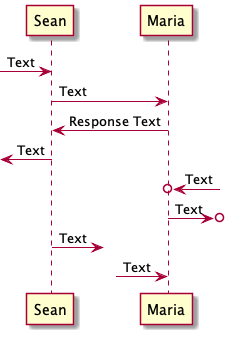
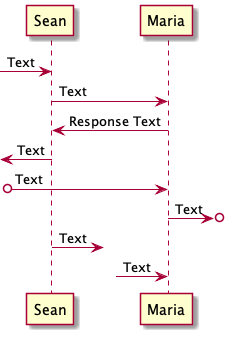
GitBook: [#109] No subject

Changed region(s): [[0.6754, 0.5045, 0.9518, 0.5935], [0.0, 0.5045, 0.2149, 0.5935]]

diff --git a/minimum-viable-products/plantuml-diagrams-as-code/syntax/sequence-diagram/messages.md b/minimum-viable-products/plantuml-diagrams-as-code/syntax/sequence-diagram/messages.md
@@ -52,7 +52,7 @@ Maria -> Zarek
 
 
 
-## Message Properties
+## Properties
 
 The minimum requirements for a message are **sender**, **line\_type**, **head\_type**, and **receiver**. As we did with lifelines we will keep all message properties except **message\_text** in the below order throughout this book. Keep in mind the order is sender to receiver as shown above, not necessarily left to right. The **message\_text** property is always furthest to the right.
 
@@ -65,15 +65,15 @@ The minimum requirements for a message are **sender**, **line\_type**, **head\_t
 
 ### Senders & Receivers
 
-Senders and receivers are usually the participants with lifelines discussed in the previous section. There are a few exceptions. Messages that come from or go to places outside the scope of the current diagram have gates as their sender or receiver at the edge of the diagram. Other messages may get lost or we may not know where they come from. Per UML standards these lost and found messages are sent or received from a circle. PlantUML doesn't have a standalone command for this, so we have to combine gates with our circle. UML calls for a solid circle but PlantUML only supports an open circle.
+Senders and receivers are usually the participants with lifelines discussed in the previous section. There are a few exceptions. Messages that come from or go to places outside the scope of the current diagram have gates as their sender or receiver at the edge of the diagram. Other messages may get lost or we may not know where they come from. Per UML standards these lost and found messages are sent or received from a circle. PlantUML doesn't have a standalone command for this, so we have to combine gates with our circle. UML calls for a solid circle but PlantUML only supports an open circle. At the time of this writing PlantUML does not properly display found messages originating from the right side gate.
 
 **Senders** and **receivers** that are not lifelines with **names** must touch the **arrow\_head**. See the list of **senders** and **receivers** below.
 
 * **name** - the name of a lifeline
-* \[ - signifies a gate touching the left side of the sequence diagram can be a sender or receiver
-* ] - signifies a gate touching the right side of the diagram can be a sender or receiver
-* o- used as the **sender** of a found message or the **receiver** of a lost message, this is a lower-case letter o
-* ? - a special character used to shorten the length of a message arrow
+* **\[** - signifies a gate touching the left side of the sequence diagram can be a sender or receiver
+* **]** - signifies a gate touching the right side of the diagram can be a sender or receiver
+* **o**- used as the **sender** of a found message or the **receiver** of a lost message, this is a lower-case letter o
+* **?** - a special character used to shorten the length of a message arrow
 
 #### Example: Sender & Receiver
 
@@ -91,8 +91,8 @@ Sean <- Maria  : Response Text
 'Send a message from Sean to a left gate.
 Sean ->[ :Text
 
-'Send a found message to Maria from the right.
-]o-> Maria: Text
+'Send a found message to Maria from the left.
+[o-> Maria : Text
 
 'Send a lost message from Maria to the right.
 Maria ->o] : Text
@@ -100,20 +100,20 @@ Maria ->o] : Text
 'Send a message with a shortened arrow from Sean to the right.
 Sean ->? : Text
 
-'Send a message with a shortenedd arrow to Maria from the left.
+'Send a message with a shortened arrow to Maria from the left.
 ?-> Maria : Text
 
 @enduml
 ```
 
-![Sender & Receiver](../../../../.gitbook/assets/Messages03\_sender\_receiver.png)
+![Senders & Receivers](../../../../.gitbook/assets/Messages03\_sender\_receiver.png)
 
 ### Line Type
 
 There are two basic **line\_types**, solid and dashed. Solid lines are for basic messages. Dashed lines are for replies and lifeline creation messages. Creation messages are covered in the [Participants Creating New Lifelines](lifelines.md#participants-creating-new-lifelines) section of [Lifelines](lifelines.md).
 
-* "-" - creates a solid line
-* "--" - creates a dashed line
+* "**-**" - creates a solid line
+* "**--**" - creates a dashed line
 
 #### Example: Line Type
 
@@ -230,34 +230,3 @@ Zarek ->  Sean : Multiline \nText
 ```
 
 ![Message Text](../../../../.gitbook/assets/Messages07\_message\_text.png)
-
-## Autonumber
-
-You can assign your messages sequential numbers automatically with the **autonumber** command.
-
-#### Example: Autonumber
-
-```
-@startuml
-'Example: Messages Autonumber
-
-'Activate the autonumber method.
-autonumber
-
-'Send a few messages back and forth.
-Sean  ->  Maria : Text
-Sean  <-- Maria : Text
-
-Maria ->  Zarek : Text
-Maria <-- Zarek : Text
-
-Zarek ->  Sean : Text
-Zarek <-- Sean : Text
-
-@enduml
-```
-
-![Autonumber](../../../../.gitbook/assets/Messages08\_autonumber.png)
-
-## Autonumber Properties
-

diff --git a/minimum-viable-products/plantuml-diagrams-as-code/syntax/sequence-diagram/autonumber.md b/minimum-viable-products/plantuml-diagrams-as-code/syntax/sequence-diagram/autonumber.md
@@ -1,0 +1,121 @@
+# Autonumber
+
+You can assign your messages sequential numbers automatically with the **autonumber** command.
+
+## Activation
+
+Place the **autonumber** command in your code and the following messages will be numbered sequentially.
+
+#### Example: Autonumber Activation
+
+```
+@startuml
+'Example: Messages Autonumber
+
+'Activate the autonumber method.
+autonumber
+
+'Send a few messages back and forth.
+Sean  ->  Maria : Text
+Sean  <-- Maria : Text
+
+Maria ->  Zarek : Text
+Maria <-- Zarek : Text
+
+Zarek ->  Sean : Text
+Zarek <-- Sean : Text
+
+@enduml
+```
+
+![Autonumber Activation](<../../../../.gitbook/assets/Autonumber01\_activation (1).png>)
+
+## Commands
+
+There are three commands that can follow **autonumber**. They are all optional. You will only need **resume** if you used **stop**, but it's not required. The **inc** command will be covered below in the [Specific Sequence](autonumber.md#specific-sequence) section.
+
+* **stop -** does what is says on the box, stops the sequential numbering
+* **resume** - resumes sequential numbering after using **stop**
+* **inc** - adds specific increments to specific sequences
+
+#### Example: Stop & Resume
+
+```
+@startuml
+'Example: Autonumber Stop & Resume
+
+'Activate the autonumber method.
+autonumber
+
+'Send a message from Sean to Maria and a reply.
+Sean  ->  Maria : Text
+Sean  <-- Maria : Text
+
+'Stop the autonumber method.
+autonumber stop
+
+'Send a message from Maria to Zarek and a reply.
+Maria ->  Zarek : Text
+Maria <-- Zarek : Text
+
+'Resume the autonumber method.
+autonumber resume
+
+'Send a message from Zarek to Sean and a reply.
+Zarek ->  Sean : Text
+Zarek <-- Sean : Text
+
+@enduml
+```
+
+![Stop & Resume](../../../../.gitbook/assets/Autonumber02\_stop\_resume.png)
+
+## Properties
+
+All **autonumber** properties are optional. They should appear after the **autonumber** or **resume** commands. They must be used in order even if you don't use all properties. You must have a **start\_number** if you wish to use **increment**. The **format** property contains three optional parts. There is no mandatory order inside of **format**.
+
+* **start\_number** - the initial number used in the **autonumber** sequence
+* **increment** - the number added to the **autonumber** sequence with each message
+* **format** - determines the format of the sequential numbers consist of three parts
+  * **text\_format** - similar to other formatting, usually surrounds the **message** and **number\_format**
+  * **message** - displays a message with the sequential numbers
+  * **number\_format** - provides a format for the sequential numbers
+
+### Start Number
+
+The **start\_number** property immediately follows either the **autonumber** or **resume** command. It defines the number that will begin the numbering sequence.
+
+#### Example: Start Number
+
+```
+@startuml
+'Example: Autonumber Start Number
+
+'Activate the autonumber method.
+'Start the sequence at 10.
+autonumber 10
+
+'Send a message from Sean to Maria and a reply.
+Sean  ->  Maria : Text
+Sean  <-- Maria : Text
+
+'Stop the autonumber method.
+autonumber stop
+
+'Send a message from Maria to Zarek and a reply.
+Maria ->  Zarek : Text
+Maria <-- Zarek : Text
+
+'Resume the autonumber method.
+'Restart the sequence at 20.
+autonumber resume 20
+
+'Send a message from Zarek to Sean and a reply.
+Zarek ->  Sean : Text
+Zarek <-- Sean : Text
+
+@enduml
+```
+
+## Specific Sequence
+

diff --git a/SUMMARY.md b/SUMMARY.md
@@ -35,6 +35,7 @@
         * [Lifelines](minimum-viable-products/plantuml-diagrams-as-code/syntax/sequence-diagram/lifelines.md)
         * [Messages](minimum-viable-products/plantuml-diagrams-as-code/syntax/sequence-diagram/messages.md)
         * [ExecutionSpecification](minimum-viable-products/plantuml-diagrams-as-code/syntax/sequence-diagram/executionspecification.md)
+        * [Autonumber](minimum-viable-products/plantuml-diagrams-as-code/syntax/sequence-diagram/autonumber.md)
         * [Text Formatting](minimum-viable-products/plantuml-diagrams-as-code/syntax/sequence-diagram/text-formatting.md)
         * [Skin Parameters](minimum-viable-products/plantuml-diagrams-as-code/syntax/sequence-diagram/skin-parameters.md)
         * [Organization](minimum-viable-products/plantuml-diagrams-as-code/syntax/sequence-diagram/organization.md)
